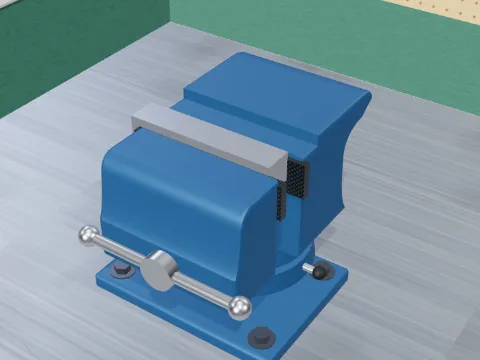
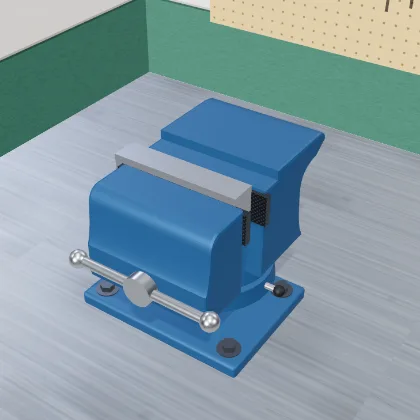
Inicio: la lupa muestra la foto entera de cada rotacion
- Fotos nuevas, cuadradas y encuadradas de cerca en cada modelo 3D.
- La lupa ya no agranda un pedazo: muestra la foto completa de la rotacion del
  cuarto donde esta el mouse, con su nombre; puede salirse del borde de la tarjeta.
- Sin numeros: la lista de rotaciones muestra solo los nombres.
- En celulares, las miniaturas llevan el nombre debajo (sin la lista repetida).

diff --git a/src/pages/YearCard.tsx b/src/pages/YearCard.tsx
@@ -2,15 +2,15 @@ import { useEffect, useRef, useState } from 'react'
 import { Link } from 'react-router-dom'
 import { SUBJECTS, type Year } from '../data/curriculum'
 
-/** Foto de cada rotación (los modelos 3D del laboratorio de ese taller). */
+/** Foto de cada rotación (el modelo 3D de ese taller, encuadrado de cerca). */
 const rotationImg = (yearId: string, n: number) => `img/rotaciones/${yearId}-${n}.webp`
 
 /** ¿El dispositivo tiene un mouse que pueda "pasar por encima"? (en celulares y tablets se muestran miniaturas) */
 const canHover = () => typeof matchMedia !== 'undefined' && matchMedia('(hover: hover) and (pointer: fine)').matches
 
 /**
- * Tarjeta de un año. Con el mouse, una lupa redonda sigue al cursor y deja ver, agrandadas, las 4 rotaciones
- * que hay "debajo" de la tarjeta (una en cada cuarto). Sin mouse, se ven las 4 en miniatura.
+ * Tarjeta de un año. Cada cuarto de la tarjeta esconde una rotación: con el mouse, una lupa redonda sigue al
+ * cursor y muestra la foto de la rotación de ese cuarto, con su nombre. Sin mouse, se ven las 4 en miniatura.
  */
 export function YearCard({ year, ready, armed }: { year: Year; ready: number; armed: boolean }) {
   const ref = useRef<HTMLAnchorElement>(null)
@@ -23,9 +23,15 @@ export function YearCard({ year, ready, armed }: { year: Year; ready: number; ar
     const b = ref.current.getBoundingClientRect()
     const x = e.clientX - b.left
     const y = e.clientY - b.top
-    ref.current.style.setProperty('--mx', `${x}px`)
-    ref.current.style.setProperty('--my', `${y}px`)
-    const q = (x > b.width / 2 ? 1 : 0) + (y > b.height / 2 ? 2 : 0)
+    const right = x > b.width / 2
+    const bottom = y > b.height / 2
+    const s = ref.current.style
+    s.setProperty('--mx', `${x}px`)
+    s.setProperty('--my', `${y}px`)
+    // posición dentro del cuarto (-1 a 1): la foto se desliza un poco al mover el mouse
+    s.setProperty('--px', String(((x - (right ? b.width / 2 : 0)) / (b.width / 2)) * 2 - 1))
+    s.setProperty('--py', String(((y - (bottom ? b.height / 2 : 0)) / (b.height / 2)) * 2 - 1))
+    const q = (right ? 1 : 0) + (bottom ? 2 : 0)
     setActive(q < rotations.length ? q : null)
   }
 
@@ -41,41 +47,36 @@ export function YearCard({ year, ready, armed }: { year: Year; ready: number; ar
     >
       <span className="year-num">{year.short}</span>
       <span className="year-name">{year.name}</span>
-      <ol className="year-rots" aria-label={`Rotaciones de ${year.name}`}>
-        {rotations.map((r, i) => (
-          <li key={r.n} className={active === i ? 'on' : ''}>
-            <b>{r.n}</b> {SUBJECTS[r.subject!].name}
-          </li>
-        ))}
-      </ol>
+      {/* en celulares los nombres ya van debajo de cada miniatura */}
+      {hover && (
+        <ul className="year-rots" aria-label={`Rotaciones de ${year.name}`}>
+          {rotations.map((r, i) => (
+            <li key={r.n} className={active === i ? 'on' : ''}>
+              {SUBJECTS[r.subject!].name}
+            </li>
+          ))}
+        </ul>
+      )}
       <span className={`pill ${ready ? 'ok' : ''}`}>
         {ready ? `${ready} ${ready === 1 ? 'taller disponible' : 'talleres disponibles'}` : 'Próximamente'}
       </span>
 
       {hover ? (
-        // lo que se ve dentro de la lupa: las 4 rotaciones, una por cuarto de la tarjeta, agrandadas
-        <span className="year-reveal" aria-hidden>
-          <span className="year-mosaic">
-            {rotations.map((r) => (
-              <span key={r.n} className="year-tile">
-                {armed && <img src={rotationImg(year.id, r.n)} alt="" decoding="async" />}
-              </span>
-            ))}
+        <span className="year-lens" aria-hidden>
+          <span className="year-lens-pics">
+            {armed &&
+              rotations.map((r, i) => (
+                <img key={r.n} src={rotationImg(year.id, r.n)} alt="" decoding="async" className={active === i ? 'on' : ''} />
+              ))}
           </span>
-          <span className="year-ring">
-            {label && (
-              <span className="year-ring-label">
-                Rotación {label.n} · {SUBJECTS[label.subject!].name}
-              </span>
-            )}
-          </span>
+          {label && <span className="year-lens-label">{SUBJECTS[label.subject!].name}</span>}
         </span>
       ) : (
         <span className="year-thumbs" aria-hidden>
           {rotations.map((r) => (
-            <span key={r.n} className="year-thumb" title={SUBJECTS[r.subject!].name}>
+            <span key={r.n} className="year-thumb">
               <img src={rotationImg(year.id, r.n)} alt="" loading="lazy" decoding="async" />
-              <b>{r.n}</b>
+              <span>{SUBJECTS[r.subject!].name}</span>
             </span>
           ))}
         </span>
@@ -85,7 +86,7 @@ export function YearCard({ year, ready, armed }: { year: Year; ready: number; ar
 }
 
 /**
- * Las fotos de la lupa se piden recién cuando el mouse se acerca a las tarjetas (o cuando la página ya está quieta):
+ * Las fotos de la lupa se piden recién cuando el mouse se acerca a las tarjetas (o a los pocos segundos):
  * así la portada carga igual de rápido.
  */
 export function useArmImages() {

diff --git a/src/styles.css b/src/styles.css
@@ -1599,75 +1599,80 @@ th {
 }
 .year-btn {
   position: relative;
-  overflow: hidden;
   isolation: isolate;
+  container-type: inline-size;
   --mx: 50%;
   --my: 50%;
+  --px: 0;
+  --py: 0;
   --r: 0px;
   transition: --r 0.22s ease-out, border-color 0.15s;
 }
 .year-btn.lens-on {
-  --r: 66px;
+  --r: 78px;
+  /* la lupa puede salirse del borde: queda por encima de las otras tarjetas */
+  z-index: 3;
   border-color: #3a4a63;
   /* la lupa reemplaza al puntero */
   cursor: none;
 }
-.year-reveal {
-  position: absolute;
-  inset: 0;
-  z-index: 2;
-  pointer-events: none;
-}
-.year-mosaic {
-  position: absolute;
-  inset: 0;
-  display: grid;
-  grid-template-columns: 1fr 1fr;
-  grid-template-rows: 1fr 1fr;
-  background: #0d131d;
-  clip-path: circle(calc(var(--r) / 1.7) at var(--mx) var(--my));
-  /* agranda lo que queda debajo del cursor */
-  transform: scale(1.7);
-  transform-origin: var(--mx) var(--my);
-}
-.year-tile {
-  position: relative;
-  overflow: hidden;
-  background: #121a26;
-}
-.year-tile img {
-  position: absolute;
-  inset: 0;
-  width: 100%;
-  height: 100%;
-  object-fit: cover;
-}
-.year-ring {
+.year-lens {
   position: absolute;
   left: var(--mx);
   top: var(--my);
   width: calc(var(--r) * 2);
   height: calc(var(--r) * 2);
   translate: -50% -50%;
-  border-radius: 50%;
-  border: 3px solid rgba(255, 255, 255, 0.92);
-  box-shadow: 0 0 0 1px rgba(0, 0, 0, 0.35), 0 10px 28px rgba(0, 0, 0, 0.55), inset 0 0 18px rgba(0, 0, 0, 0.35);
+  z-index: 2;
+  pointer-events: none;
   opacity: 0;
   transition: opacity 0.18s;
 }
-.year-btn.lens-on .year-ring {
+.year-btn.lens-on .year-lens {
   opacity: 1;
 }
-.year-ring-label {
+.year-lens-pics {
+  position: absolute;
+  inset: 0;
+  border-radius: 50%;
+  overflow: hidden;
+  background: #0d131d;
+  border: 3px solid rgba(255, 255, 255, 0.92);
+  box-shadow: 0 0 0 1px rgba(0, 0, 0, 0.35), 0 12px 30px rgba(0, 0, 0, 0.6);
+}
+.year-lens-pics img {
+  position: absolute;
+  inset: 0;
+  width: 100%;
+  height: 100%;
+  object-fit: cover;
+  opacity: 0;
+  /* la foto se desliza apenas al mover el mouse dentro de su cuarto */
+  transform: scale(1.12) translate(calc(var(--px) * -4%), calc(var(--py) * -4%));
+  transition: opacity 0.2s;
+}
+.year-lens-pics img.on {
+  opacity: 1;
+}
+/* brillo de vidrio */
+.year-lens-pics::after {
+  content: '';
+  position: absolute;
+  inset: 0;
+  border-radius: 50%;
+  background: radial-gradient(circle at 30% 25%, rgba(255, 255, 255, 0.18), transparent 45%);
+  box-shadow: inset 0 0 14px rgba(0, 0, 0, 0.45);
+}
+.year-lens-label {
   position: absolute;
   left: 50%;
-  bottom: 10px;
+  bottom: -6px;
   translate: -50% 0;
   white-space: nowrap;
-  padding: 3px 10px;
+  padding: 3px 11px;
   border-radius: 999px;
-  background: rgba(8, 12, 19, 0.88);
-  border: 1px solid rgba(255, 255, 255, 0.18);
+  background: rgba(8, 12, 19, 0.92);
+  border: 1px solid rgba(255, 255, 255, 0.25);
   color: #fff;
   font-size: 0.82rem;
   font-weight: 700;
@@ -1684,25 +1689,12 @@ th {
   gap: 6px;
 }
 .year-rots li {
-  display: inline-flex;
-  align-items: center;
-  gap: 5px;
-  padding: 2px 9px 2px 3px;
+  padding: 2px 10px;
   border-radius: 999px;
   border: 1px solid var(--line);
   color: var(--muted);
   font-size: 0.84rem;
   transition: color 0.15s, border-color 0.15s, background 0.15s;
-}
-.year-rots b {
-  display: inline-grid;
-  place-items: center;
-  width: 19px;
-  height: 19px;
-  border-radius: 50%;
-  background: var(--card2);
-  color: var(--text);
-  font-size: 0.72rem;
 }
 .year-rots li.on {
   color: var(--text);
@@ -1714,54 +1706,46 @@ th {
 .year-thumbs {
   display: grid;
   grid-template-columns: repeat(4, 1fr);
-  gap: 6px;
+  gap: 8px;
   width: 100%;
   margin-top: 8px;
 }
 .year-thumb {
   display: flex;
   flex-direction: column;
-  gap: 3px;
-  font-size: 0.68rem;
+  align-items: center;
+  gap: 4px;
+  min-width: 0;
+  font-size: 0.7rem;
   color: var(--muted);
   line-height: 1.2;
 }
 .year-thumb img {
   width: 100%;
-  aspect-ratio: 4 / 3;
+  aspect-ratio: 1;
   object-fit: cover;
-  border-radius: 8px;
+  border-radius: 10px;
   border: 1px solid var(--line);
   background: #121a26;
 }
-.year-thumb {
-  position: relative;
+.year-thumb span {
+  max-width: 100%;
+  overflow: hidden;
+  text-overflow: ellipsis;
+  white-space: nowrap;
 }
 /* en una tablet parada las tarjetas son angostas: miniaturas de a dos */
-.year-btn {
-  container-type: inline-size;
-}
 @container (max-width: 300px) {
   .year-thumbs {
     grid-template-columns: repeat(2, 1fr);
   }
 }
-.year-thumb b {
-  position: absolute;
-  top: 4px;
-  left: 4px;
-  display: grid;
-  place-items: center;
-  width: 18px;
-  height: 18px;
-  border-radius: 50%;
-  background: rgba(8, 12, 19, 0.85);
-  color: #fff;
-  font-size: 0.7rem;
-}
 @media (prefers-reduced-motion: reduce) {
   .year-btn {
     transition: none;
+  }
+  .year-lens-pics img {
+    transform: none;
   }
 }
 
